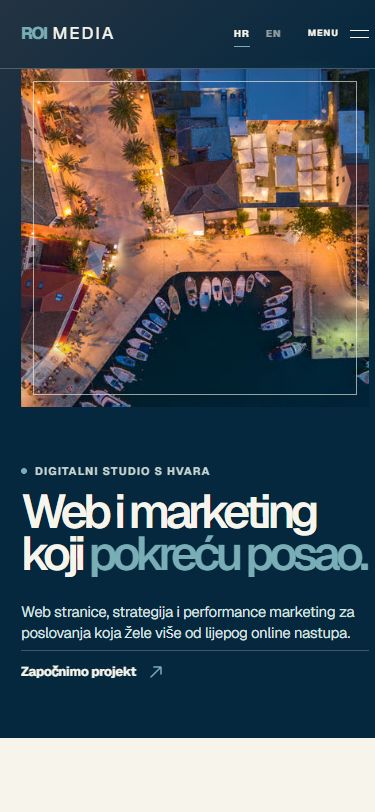
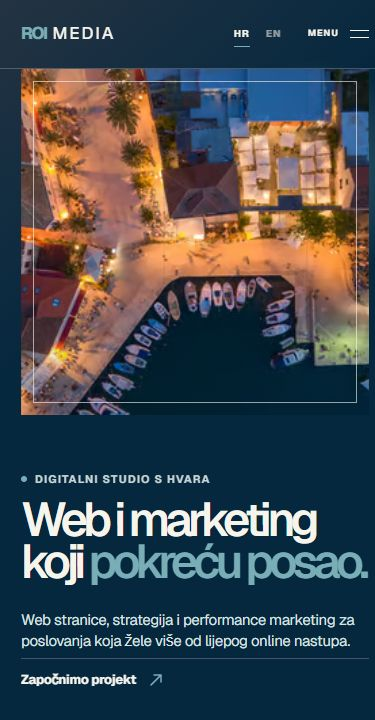
Finalize ROI Media case study

diff --git a/content/roi-media-case-study.ts b/content/roi-media-case-study.ts
@@ -91,7 +91,7 @@ export const roiMediaCaseStudyContent: Record<Locale, RoiMediaCaseStudyContent> 
       label: "WEB DEVELOPMENT · 2026",
       title: "ROI Media",
       intro: "Web stranica digitalnog studija s Hvara, razvijena od strategije i sadržaja do dizajna, razvoja i produkcije.",
-      visit: "View live site ↗",
+      visit: "Pogledaj live site ↗",
     },
     facts: [
       { label: "Uloga", values: ["Strategija", "Dizajn", "Sadržaj", "Razvoj", "SEO", "Produkcija"] },
@@ -125,7 +125,7 @@ export const roiMediaCaseStudyContent: Record<Locale, RoiMediaCaseStudyContent> 
       responsive: {
         label: "Responsive",
         desktop: "Desktop",
-        mobile: "Mobile",
+        mobile: "Mobilni",
         desktopAlt: "Desktop screenshot ROI Media stranice",
         mobileAlt: "Mobile screenshot ROI Media stranice",
       },
@@ -149,7 +149,7 @@ export const roiMediaCaseStudyContent: Record<Locale, RoiMediaCaseStudyContent> 
         paragraphs: [
           "ROI Media sada ima brzu, responzivnu i dvojezičnu web stranicu koja povezuje pozicioniranje, dizajn, SEO, lead generation i produkcijsku infrastrukturu u jednu cjelinu.",
         ],
-        visit: "View live site ↗",
+        visit: "Pogledaj live site ↗",
         back: "Natrag na projekte ↑",
       },
     },

diff --git a/components/roi-media-case-study-page.tsx b/components/roi-media-case-study-page.tsx
@@ -1,5 +1,6 @@
 import Image from "next/image";
 import Link from "next/link";
+import roiMediaMobile from "@/public/roi-media-mobile.png";
 import { roiMediaCaseStudyContent } from "@/content/roi-media-case-study";
 import type { Locale } from "@/content/site";
 
@@ -90,8 +91,8 @@ export function RoiMediaCaseStudyPage({ locale }: { locale: Locale }) {
                 </figure>
                 <figure>
                   <figcaption>{content.sections.responsive.mobile}</figcaption>
-                  <div className="case-screen case-screen-mobile">
-                    <Image src="/roi-media-mobile.png" alt={content.sections.responsive.mobileAlt} fill sizes="(min-width: 1200px) 15vw, (min-width: 640px) 24vw, 58vw" />
+                  <div className="case-screen case-screen-mobile case-screen-roi-mobile">
+                    <Image src={roiMediaMobile} alt={content.sections.responsive.mobileAlt} fill sizes="(min-width: 1200px) 15vw, (min-width: 640px) 24vw, 58vw" />
                   </div>
                 </figure>
               </div>

diff --git a/app/globals.css b/app/globals.css
@@ -103,6 +103,7 @@ a:focus-visible, summary:focus-visible {
 .case-screen { position: relative; overflow: hidden; border-top: 1px solid var(--border); border-bottom: 1px solid var(--border); background: var(--surface); }
 .case-screen-desktop { aspect-ratio: 1265 / 712; }
 .case-screen-mobile { aspect-ratio: 390 / 844; }
+.case-screen-roi-mobile { aspect-ratio: 375 / 720; }
 .case-flow { display: flex; flex-wrap: wrap; gap: .8rem 0; margin: 2.7rem 0 0; padding: 0; list-style: none; color: var(--foreground); font-family: var(--font-ibm-plex-mono), monospace; font-size: .75rem; line-height: 1.55; }
 .case-flow li { display: inline-flex; align-items: center; }
 .case-flow li:not(:last-child)::after { content: "→"; margin: 0 .8rem; color: var(--purple-heading); }
